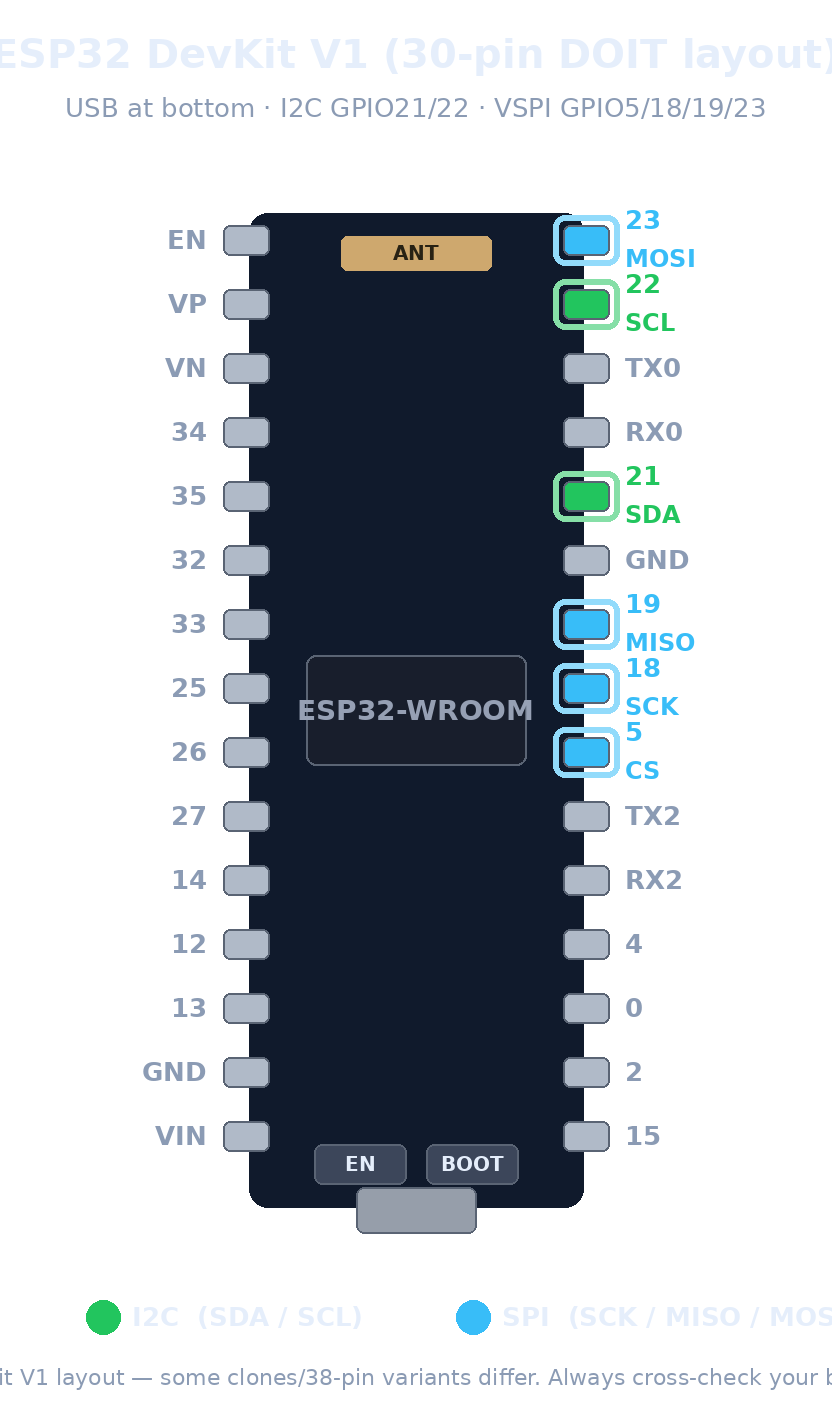
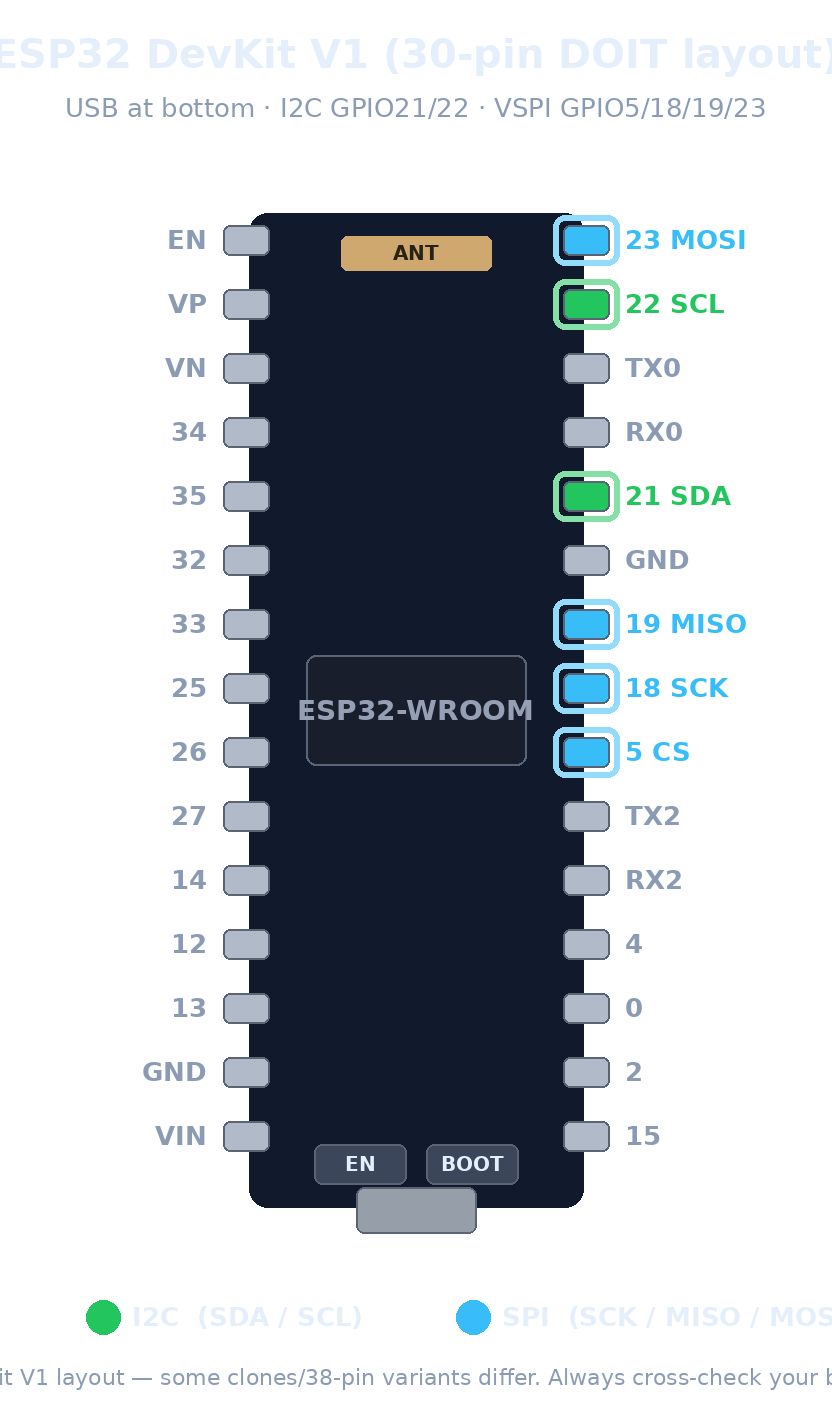
Board tab + diagrams: pin numbers back in cards, same-line side labels, stacked bottom labels
- I2C/SPI cards show pin numbers again: vertical rows with description left
  ('SDA (data)') and pin right ('GP4 (pin 6)'), color-matched to the diagram.
- Diagram side pads: number and role on ONE line ('GP4 SDA' / 'GP12 MISO')
  instead of stacked above/below.
- Diagram bottom pads: number stacked over role letters (GP12 / MISO) — the
  user-requested layout that avoids the horizontal overlap of close bottom
  pads on the RP2040-Zero; board widened to 470px so 7 bottom pads fit.
- Self-check extended: bottom label width vs pad spacing (caught the
  remaining RP2040-Zero overlap during this change) + legend clearance.
- Fix: __version__ was still 0.4.3 while releases 0.4.4/0.4.5 shipped —
  updater would re-prompt forever. Bumped to 0.4.6 (release tag now always
  matches the binary's reported version).

79 tests passing; stacked-label rendering verified by pixel-band sampling.

Changed region(s): [[0.75, 0.4028, 0.9062, 0.5577], [0.75, 0.1549, 0.9062, 0.2479], [0.75, 0.3099, 0.875, 0.3718]]

diff --git a/tools/gen_board_diagrams.py b/tools/gen_board_diagrams.py
@@ -106,7 +106,7 @@ BOARDS = [
         left=["5V", "GND", "3V3", "GP29", "GP28", "GP27", "GP26", "GP15"],
         bottom=["GP14", "GP13", "GP12", "GP11", "GP10", "GP9", "GP8"],
         right=["GP0", "GP1", "GP2", "GP3", "GP4", "GP5", "GP6", "GP7"],
-        board_w=340, pitch=64,
+        board_w=470, pitch=64,
         highlights={
             "GP4": ("i2c", "sda"), "GP5": ("i2c", "scl"),
             "GP12": ("spi", "miso"), "GP13": ("spi", "cs"),
@@ -222,9 +222,9 @@ def draw_diagram(bd):
     if bottom:
         board_h = max(board_h, len(bottom) * pitch + 60)
 
-    # Bottom pads draw their labels BELOW the board edge; reserve room so
-    # they never touch the legend (rp2040-zero / c6-zero previously collided).
-    bot_label_room = 64 if bottom else 0
+    # Bottom pads draw stacked labels BELOW the board edge (number, then role);
+    # reserve room so they never touch the legend.
+    bot_label_room = 110 if bottom else 0
 
     W = LABEL_MARGIN * 2 + board_w + PAD_W * 2 + 60
     H = HEADER_H + board_h + PAD_H * 2 + FOOTER_H + bot_label_room + \
@@ -326,22 +326,21 @@ def draw_diagram(bd):
             tx, ty = cx, r[3] + 14
             anchor = "ma"
         if col:
-            # draw each element exactly once: label above the pad line,
-            # role tag below (bottom pads: single combined line under the pad)
+            # side pads: ONE line — "GP4 SDA" (number + role together).
+            # bottom pads: stacked — number on top, role letter(s) below
+            # (bottom pads sit close together; a combined line would overlap).
             tag_txt = (I2C_TAGS if role == "i2c" else SPI_TAGS)[tag]
-            if side == "left":
-                d.text((tx, ty - 20), label, font=f_label, fill=col,
-                       anchor="rm")
-                d.text((tx, ty + 18), tag_txt, font=f_tag, fill=col,
-                       anchor="rm")
-            elif side == "right":
-                d.text((tx, ty - 20), label, font=f_label, fill=col,
-                       anchor="lm")
-                d.text((tx, ty + 18), tag_txt, font=f_tag, fill=col,
-                       anchor="lm")
-            else:  # bottom
-                d.text((tx, ty), label + " " + tag_txt, font=f_tag,
-                       fill=col, anchor="ma")
+            if side == "bottom":
+                d.text((cx, r[3] + 26), label, font=f_tag, fill=col,
+                       anchor="mm")
+                d.text((cx, r[3] + 54), tag_txt, font=f_tag, fill=col,
+                       anchor="mm")
+            elif side == "left":
+                d.text((tx, ty), label + " " + tag_txt, font=f_label,
+                       fill=col, anchor="rm")
+            else:  # right
+                d.text((tx, ty), label + " " + tag_txt, font=f_label,
+                       fill=col, anchor="lm")
         else:
             d.text((tx, ty), label, font=f_label, fill=COL_DIM, anchor=anchor)
 
@@ -371,13 +370,15 @@ def draw_diagram(bd):
         d.text((W // 2, ly + 64), bd["footnote"], font=f_note,
                fill=COL_DIM, anchor="ma")
 
-    geom = {"by1": by1, "legend_y": ly, "has_bottom": bool(bottom)}
+    geom = {"by1": by1, "legend_y": ly, "has_bottom": bool(bottom),
+            "board_w": board_w}
     return img, pads, geom
 
 
 def self_check(bd, img, pads, geom):
-    """Verify every highlighted pad rendered in its color, and that
-    bottom-pad labels can't touch the legend (past overlap bug)."""
+    """Verify every highlighted pad rendered in its color, that bottom-pad
+    labels can't touch the legend, and that bottom labels don't overlap
+    each other horizontally (past overlap bug)."""
     px = img.load()
     ok = True
     for label, (role, _tag) in bd["highlights"].items():
@@ -390,12 +391,24 @@ def self_check(bd, img, pads, geom):
                   f"(got rgba{r,g,b,a} role={got_role}, want {want})")
             ok = False
     if geom["has_bottom"]:
-        # bottom pad: edge +15, label top +14, label height ~30, margin 8
-        label_bottom = geom["by1"] + 15 + 14 + 30
-        if geom["legend_y"] < label_bottom + 8:
+        # stacked bottom labels: number centered at by1+26, role at by1+54,
+        # each ~24px tall -> ink bottom ≈ by1+66; keep 10px clear of legend
+        label_bottom = geom["by1"] + 66
+        if geom["legend_y"] < label_bottom + 10:
             print(f"  !! {bd['key']}: bottom labels (to y={label_bottom}) "
                   f"collide with legend (y={geom['legend_y']})")
             ok = False
+        # horizontal: widest bottom text must fit inside one pad spacing
+        n_bot = len(bd.get("bottom", []))
+        if n_bot >= 2:
+            spacing = geom["board_w"] / n_bot
+            widest = max(len(l) for l in bd["bottom"])
+            # ~14px per char at 24px bold font + padding
+            text_w = widest * 14 + 8
+            if text_w > spacing:
+                print(f"  !! {bd['key']}: bottom labels {text_w:.0f}px "
+                      f"wider than pad spacing {spacing:.0f}px — overlap")
+                ok = False
     return ok
 
 

diff --git a/gui.py b/gui.py
@@ -597,21 +597,25 @@ class Application(ctk.CTk):
         self._show_board_info(None)
 
     def _build_pin_summary(self, parent, title, color, roles):
-        """Vertical card: one description row per pin.
+        """Vertical card: one row per pin — description left, pin right.
 
-        Pin NUMBERS are intentionally not shown here — the diagram next to
-        the card is the visual reference for where each pin is; these rows
-        explain what each signal does.
+        The pin values are filled in by _show_board_info(); the diagram next
+        to the card shows where each highlighted pin physically is.
         """
         ctk.CTkLabel(parent, text=title, font=F["heading"],
-                     text_color=color).pack(anchor="w", padx=14, pady=(12, 4))
-        for label, _key in roles:
+                     text_color=color).pack(anchor="w", padx=14, pady=(12, 6))
+        for label, key in roles:
             row = ctk.CTkFrame(parent, fg_color="transparent")
-            row.pack(anchor="w", padx=14, pady=(0, 7))
-            ctk.CTkLabel(row, text="●", text_color=color, font=F["small"],
-                         width=18).pack(side="left", padx=(0, 8))
+            row.pack(fill="x", padx=14, pady=(0, 7))
+            dot = ctk.CTkLabel(row, text="●", text_color=color,
+                               font=F["small"], width=18)
+            dot.pack(side="left", padx=(0, 8))
             ctk.CTkLabel(row, text=label, font=F["body"],
                          text_color=C["dim"]).pack(side="left")
+            val = ctk.CTkLabel(row, text="—", font=F["mono"],
+                               text_color=C["text"])
+            val.pack(side="right")
+            setattr(self, f"_pin_lbl_{key}", val)
 
     def _on_board_picked(self, name):
         from cd3217_analyzer.boards import BOARDS
@@ -667,6 +671,8 @@ class Application(ctk.CTk):
             self.board_sub_label.configure(
                 text="Connect via USB Bridge (board) to see the live pinout, "
                      "or pick a board above.")
+            for key in ("sda", "scl", "sck", "miso", "mosi", "cs"):
+                getattr(self, f"_pin_lbl_{key}").configure(text="—")
             self.board_notes_label.configure(
                 text="Wiring basics: I2C needs SDA+SCL (+2.2kΩ pull-ups to "
                      "3.3V, GND). SPI flash needs SCK/MISO/MOSI/CS + GND, "
@@ -679,7 +685,15 @@ class Application(ctk.CTk):
             f"•  {n}" for n in board.notes))
         self.board_sub_label.configure(text=(
             f"{board.family}  ·  {'SPI1' if board.hw == 1 else 'hw SPI'}  ·  "
-            f"pins shown highlighted in the diagram"))
+            f"highlighted in the diagram"))
+        for key in ("sda", "scl"):
+            v = board.i2c.get(key)
+            getattr(self, f"_pin_lbl_{key}").configure(
+                text=v[1] if v else "—")
+        for key in ("sck", "miso", "mosi", "cs"):
+            v = board.spi.get(key)
+            getattr(self, f"_pin_lbl_{key}").configure(
+                text=v[1] if v else "—")
 
     def _refresh_board_tab_live(self):
         """Update the Board tab from the connected board's INFO frame."""

diff --git a/cd3217_analyzer/__init__.py b/cd3217_analyzer/__init__.py
@@ -1,4 +1,4 @@
 """CD3217B12 (Apple ACE2) I2C Diagnostic Analyzer for MacBook Repair."""
 
-__version__ = "0.4.3"
+__version__ = "0.4.6"
 __author__ = "ALeXXBody"
